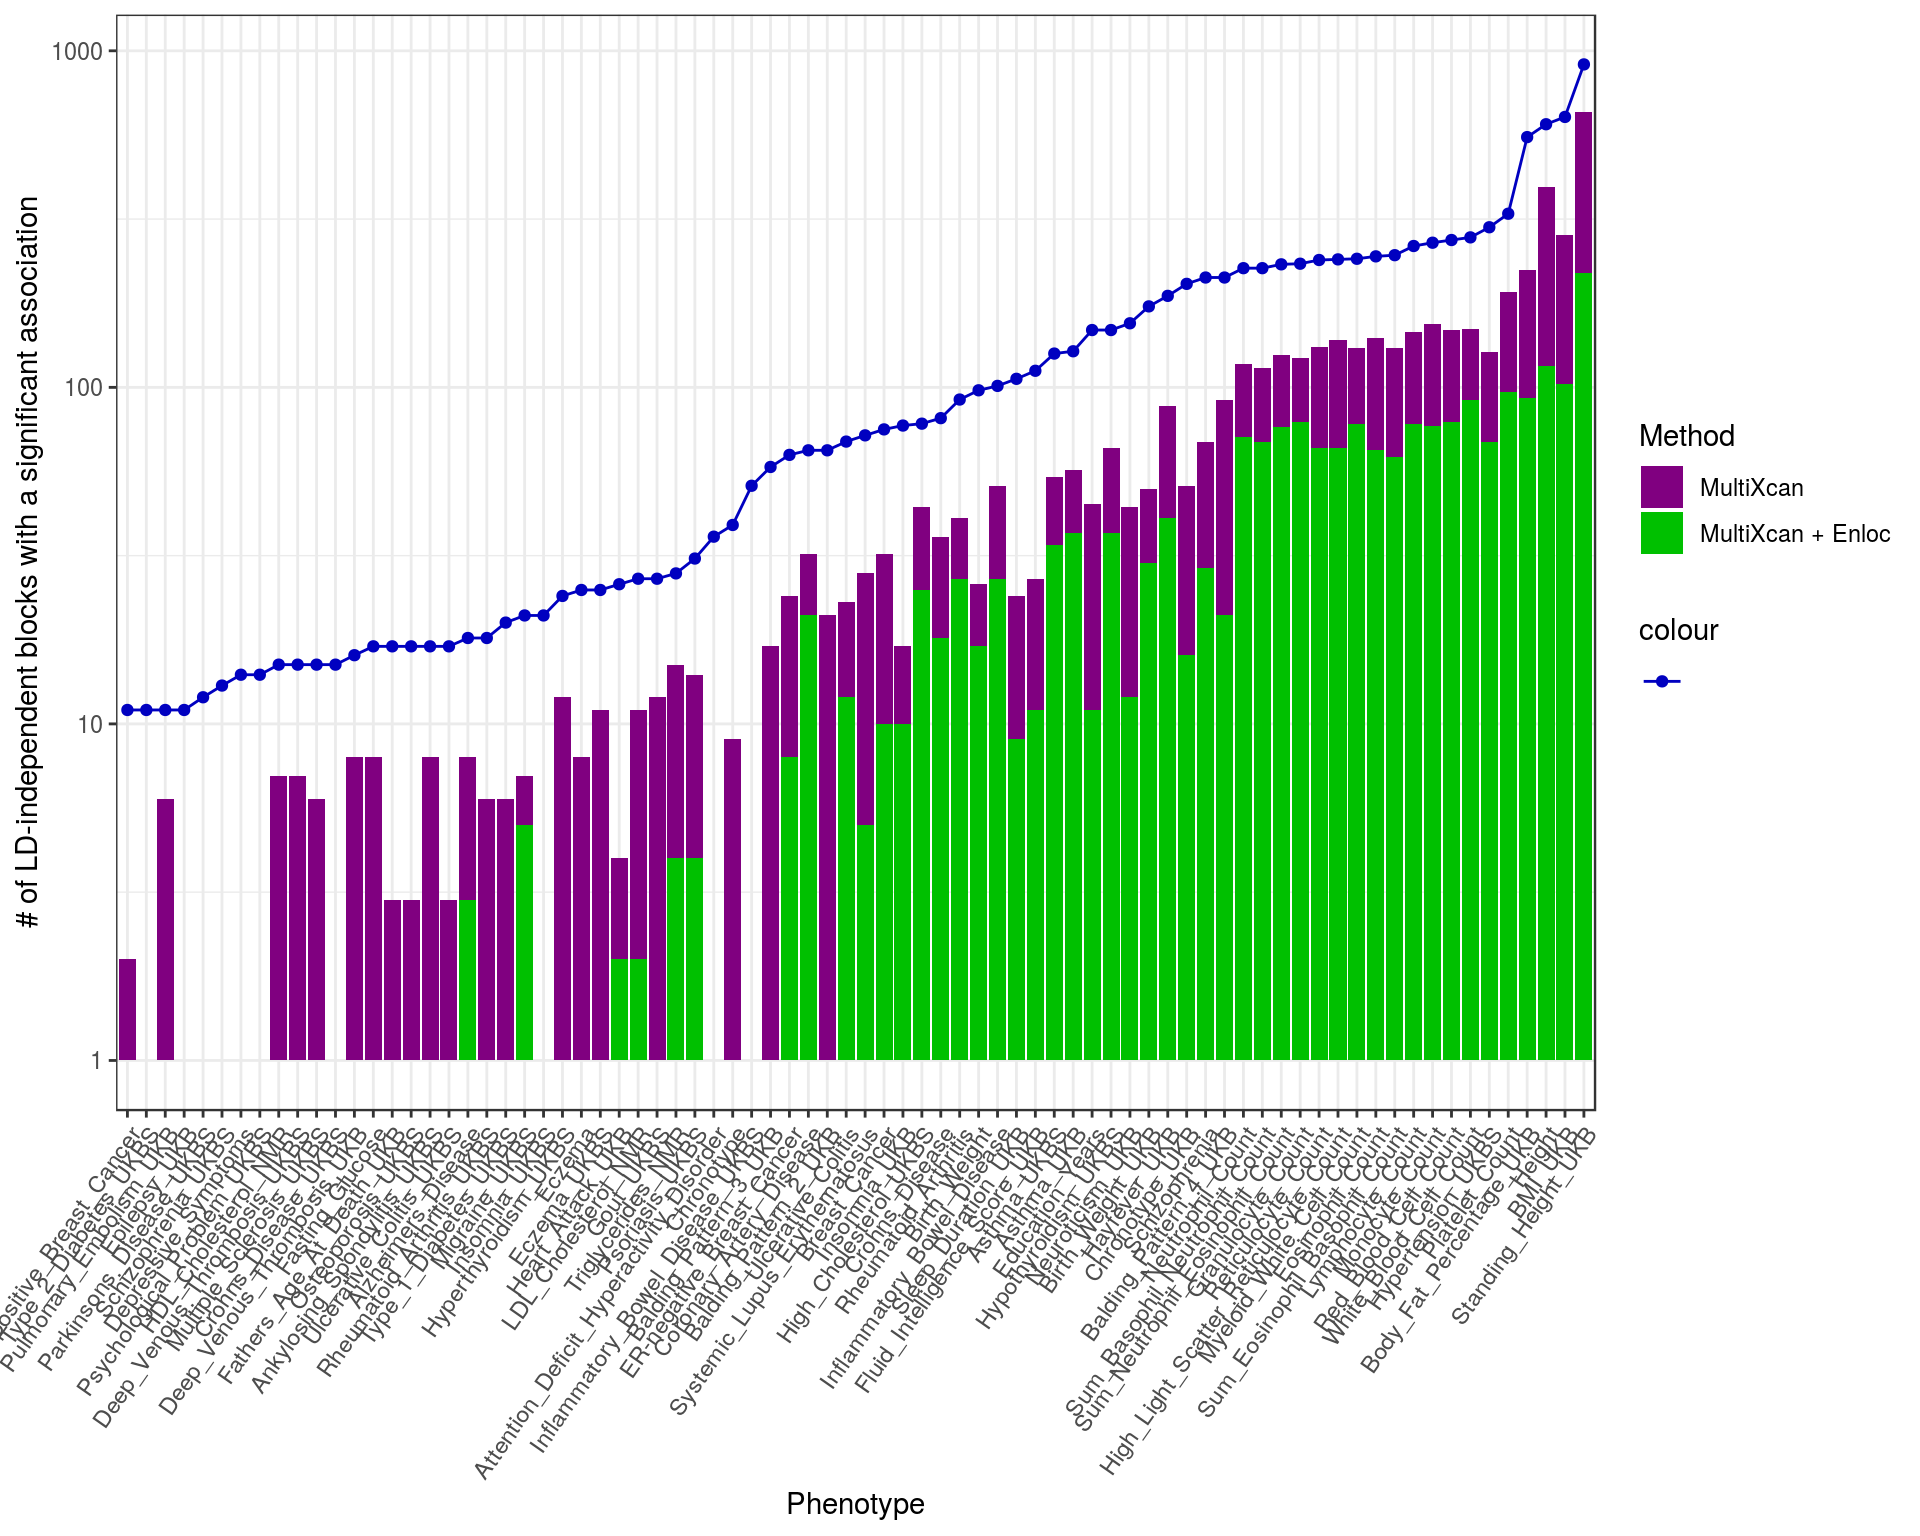
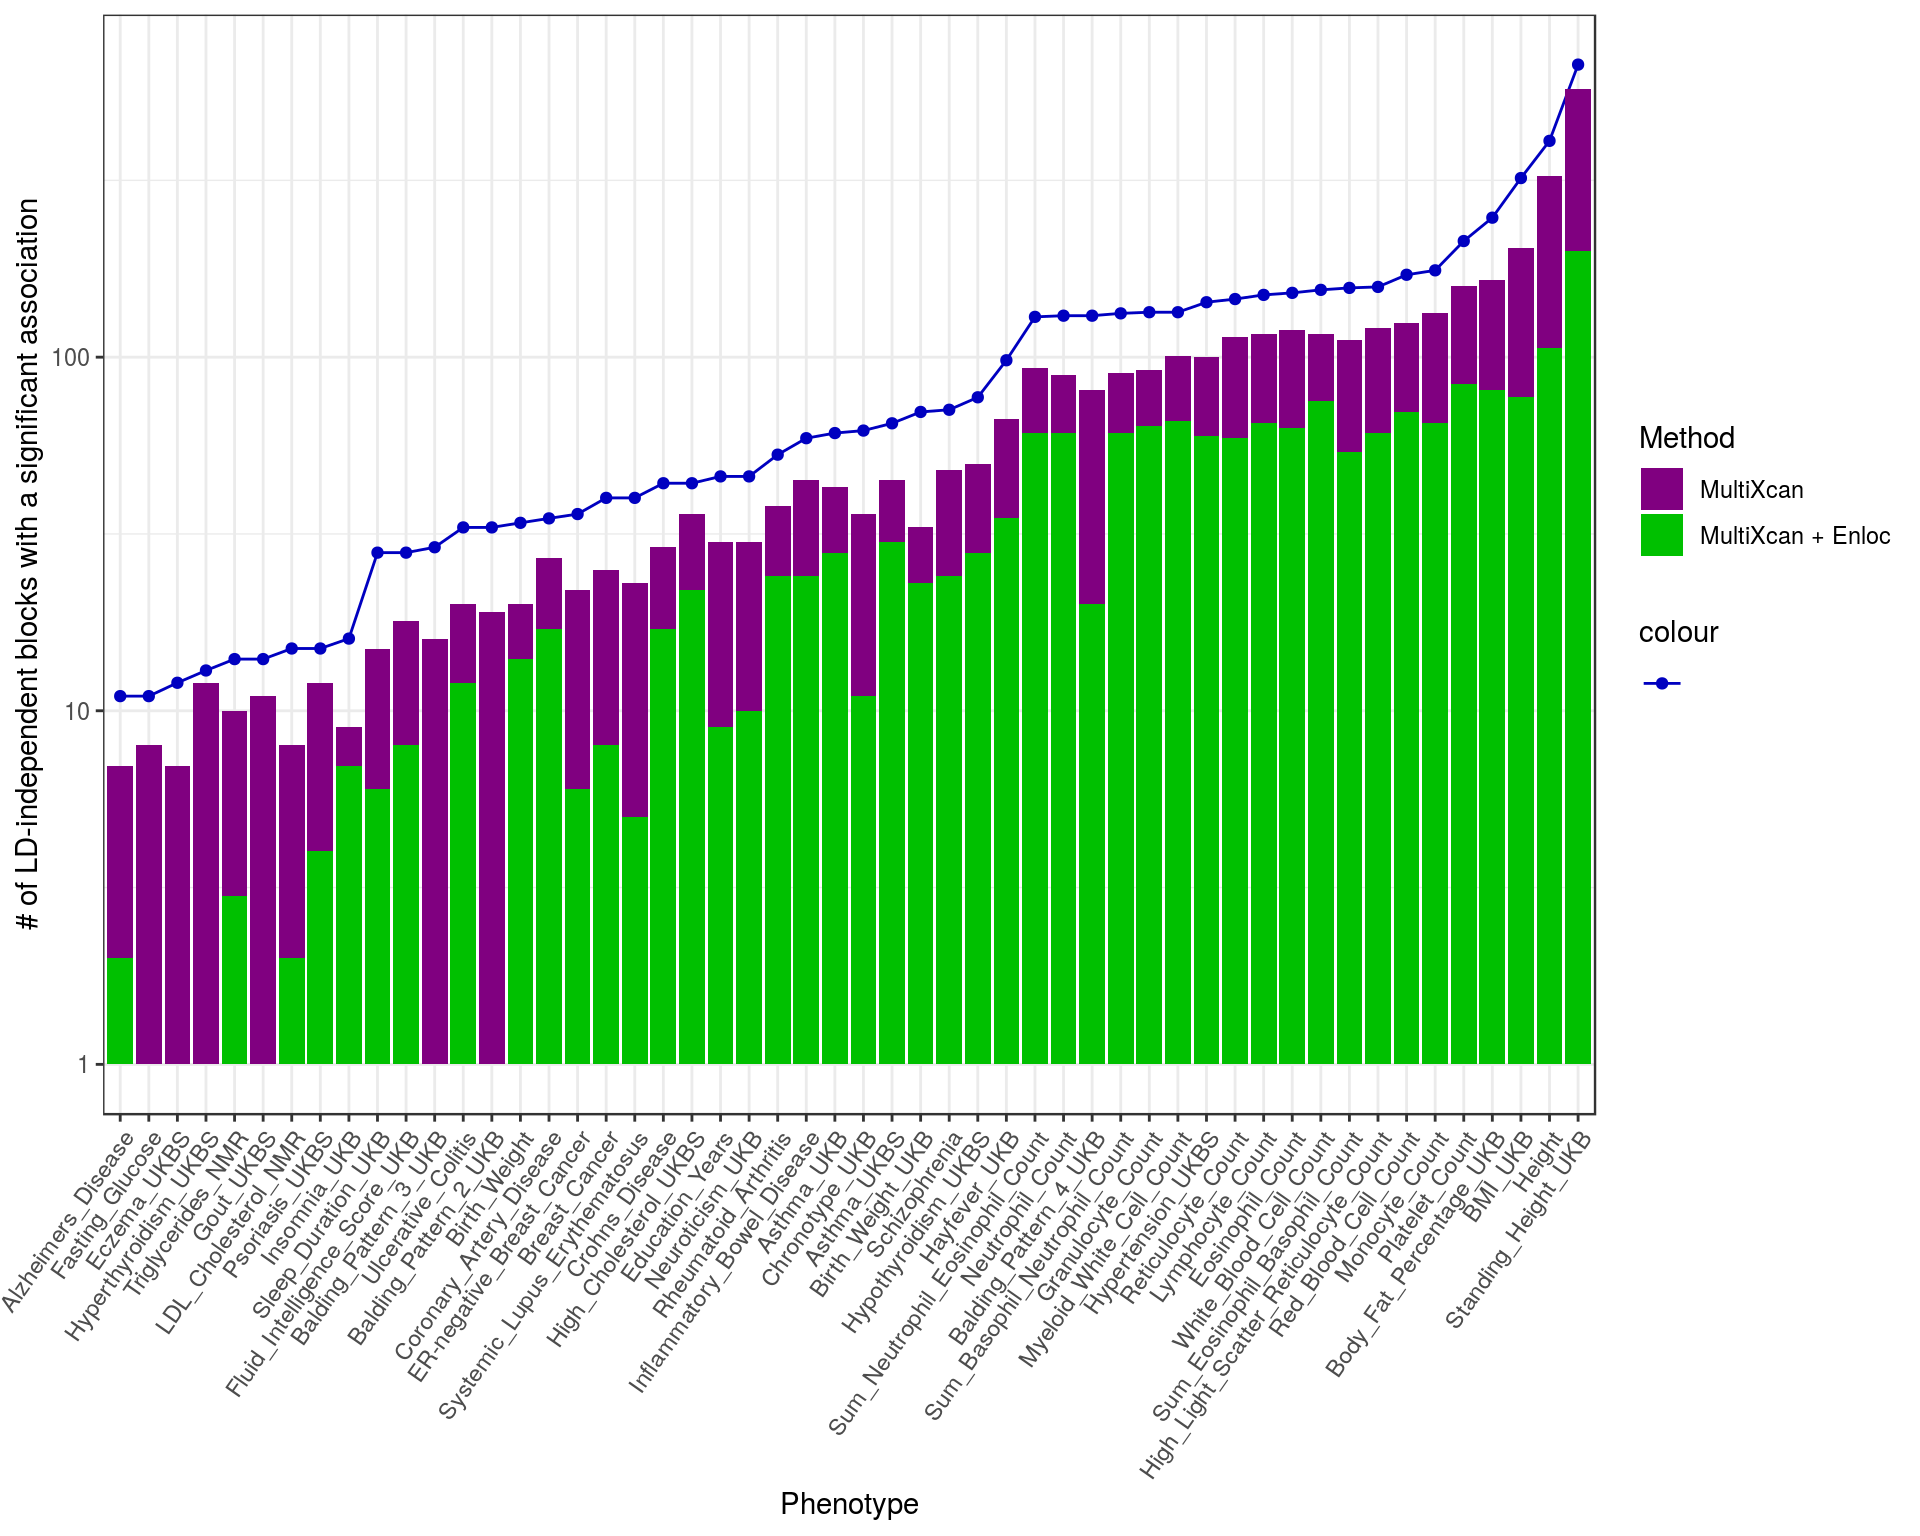
minor updates

diff --git a/docs/miscellaneous_statistics.html b/docs/miscellaneous_statistics.html
@@ -508,10 +508,10 @@ This reproducible <a href="http://rmarkdown.rstudio.com">R Markdown</a> analysis
 <div class="panel panel-default">
 <div class="panel-heading">
 <p class="panel-title">
-<a data-toggle="collapse" data-parent="#workflowr-checks" href="#strongRepositoryversionstrongahrefhttpsgithubcomhakyimlabgtexgwasanalysistreee23b054a7db864855c04e294d18b76a3b9a41a67targetblanke23b054a"> <span class="glyphicon glyphicon-ok text-success" aria-hidden="true"></span> <strong>Repository version:</strong> <a href="https://github.com/hakyimlab/gtex-gwas-analysis/tree/e23b054a7db864855c04e294d18b76a3b9a41a67" target="_blank">e23b054</a> </a>
+<a data-toggle="collapse" data-parent="#workflowr-checks" href="#strongRepositoryversionstrongahrefhttpsgithubcomhakyimlabgtexgwasanalysistree20eaab542e7c90c8ac1d61a5ac3af323b2cb9e7ftargetblank20eaab5a"> <span class="glyphicon glyphicon-ok text-success" aria-hidden="true"></span> <strong>Repository version:</strong> <a href="https://github.com/hakyimlab/gtex-gwas-analysis/tree/20eaab542e7c90c8ac1d61a5ac3af323b2cb9e7f" target="_blank">20eaab5</a> </a>
 </p>
 </div>
[2 lines of base64/hex data omitted]
 <div class="panel-body">
 <p>
 Great! You are using Git for version control. Tracking code development and connecting the code version to the results is critical for reproducibility. The version displayed above was the version of the Git repository at the time these results were generated. <br><br> Note that you need to be careful to ensure that all relevant files for the analysis have been committed to Git prior to generating the results (you can use <code>wflow_publish</code> or <code>wflow_git_commit</code>). workflowr only checks the R Markdown file, but you know if there are other scripts or data files that it depends on. Below is the status of the Git repository when the results were generated:
@@ -528,13 +528,12 @@ Ignored files:
 Untracked files:
     Untracked:  data/dapg_variants/
     Untracked:  output/counts_per_ld_block.csv
-    Untracked:  output/counts_per_ldblock_gwas_mx_and_enloc.rds
     Untracked:  output/gwas_counts_per_ldblock.rds
 
 Unstaged changes:
     Modified:   analysis/miscellaneous_statistics.Rmd
     Modified:   code/count_gwas_vs_predixcan_hits.R
-    Deleted:    output/counts_per_ldblock_mx_and_enloc.rds
+    Modified:   output/counts_per_ldblock_gwas_mx_and_enloc.rds
 
 </code></pre>
 <p>
@@ -573,6 +572,40 @@ Message
 </tr>
 </thead>
 <tbody>
+<tr>
+<td>
+Rmd
+</td>
+<td>
+<a href="https://github.com/hakyimlab/gtex-gwas-analysis/blob/20eaab542e7c90c8ac1d61a5ac3af323b2cb9e7f/analysis/miscellaneous_statistics.Rmd" target="_blank">20eaab5</a>
+</td>
+<td>
+rbonazzola
+</td>
+<td>
+2019-03-22
+</td>
+<td>
+changes to plot of # of associated loci
+</td>
+</tr>
+<tr>
+<td>
+html
+</td>
+<td>
+<a href="https://rawcdn.githack.com/hakyimlab/gtex-gwas-analysis/20eaab542e7c90c8ac1d61a5ac3af323b2cb9e7f/docs/miscellaneous_statistics.html" target="_blank">20eaab5</a>
+</td>
+<td>
+rbonazzola
+</td>
+<td>
+2019-03-22
+</td>
+<td>
+changes to plot of # of associated loci
+</td>
+</tr>
 <tr>
 <td>
 Rmd
@@ -758,9 +791,14 @@ query &lt;- glue::glue(&quot;SELECT Tag as phenotype, Deflation
 gwas_deflation_status &lt;- query_exec(query, gwas_metadata_tbl$project)</code></pre>
 <pre><code>0 bytes processed</code></pre>
 <pre class="r"><code>selected_phenotypes &lt;- gwas_deflation_status %&gt;% filter(Deflation == NO_DEFLATION) %&gt;% .[,1]
-strong_deflation_count &lt;- gwas_deflation_status %&gt;% filter(Deflation == STRONG_DEFLATION) %&gt;% .[,1] %&gt;% length()
-mild_deflation_count &lt;- gwas_deflation_status %&gt;% filter(Deflation == MILD_DEFLATION) %&gt;% .[,1] %&gt;% length()</code></pre>
-<p><strong><code>{r length(selected_phenotypes))} phenotypes were selected for analysis. From the rest,</code>{r strong_deflation_count} GWAS showed strong deflation after imputation, whereas `{r mild_deflation_count} presented mild deflation.</strong></p>
+strong_deflation_phenotypes &lt;- gwas_deflation_status %&gt;% filter(Deflation == STRONG_DEFLATION) %&gt;% .[,1]
+mild_deflation_phenotypes &lt;- gwas_deflation_status %&gt;% filter(Deflation == MILD_DEFLATION) %&gt;% .[,1]
+
+gwas_metadata &lt;- gtex_gwas_metadata() %&gt;% 
+                 rename(phenotype=&quot;Tag&quot;) %&gt;% 
+                 select(phenotype, new_Phenotype, Category, Deflation)</code></pre>
+<pre><code>0 bytes processed</code></pre>
+<p><strong>87 phenotypes were selected for analysis. From the rest, 23 GWAS showed strong deflation after imputation, whereas 4 presented mild deflation.</strong></p>
 </div>
 <div id="predixcan-and-multixcan" class="section level3">
 <h3>PrediXcan and MultiXcan</h3>
@@ -794,7 +832,7 @@ mild_deflation_count &lt;- gwas_deflation_status %&gt;% filter(Deflation == MILD
 <div id="predixcan-and-colocalization-methods" class="section level3">
 <h3>PrediXcan and colocalization methods</h3>
 <div id="how-many-among-predixcan-significant-are-coloc-colocalized" class="section level4">
-<h4>How many among PrediXcan-significant are COLOC-colocalized?</h4>
+<h4>How many among PrediXcan-significant are Coloc-colocalized?</h4>
 <pre><code>0 bytes processed</code></pre>
 <pre><code>&#39;data.frame&#39;:   117978 obs. of  5 variables:
  $ phenotype: chr  &quot;pgc.scz2&quot; &quot;pgc.scz2&quot; &quot;pgc.scz2&quot; &quot;pgc.scz2&quot; ...
@@ -814,7 +852,7 @@ mild_deflation_count &lt;- gwas_deflation_status %&gt;% filter(Deflation == MILD
 <p><strong>1253 out of 6119 (20.48%)</strong></p>
 </div>
 <div id="how-many-among-predixcan-significant-are-enloc-colocalized" class="section level4">
-<h4>How many among PrediXcan-significant are ENLOC-colocalized?</h4>
+<h4>How many among PrediXcan-significant are Enloc-colocalized?</h4>
 <pre><code>0 bytes processed</code></pre>
 <pre><code>&#39;data.frame&#39;:   201488 obs. of  5 variables:
  $ phenotype: chr  &quot;pgc.scz2&quot; &quot;pgc.scz2&quot; &quot;pgc.scz2&quot; &quot;pgc.scz2&quot; ...
@@ -834,7 +872,7 @@ mild_deflation_count &lt;- gwas_deflation_status %&gt;% filter(Deflation == MILD
 <p><strong>1173 out of 6119 (19.169799%)</strong></p>
 </div>
 <div id="how-many-among-coloc-colocalized-genes-are-predixcan-significant" class="section level4">
-<h4>How many among COLOC-colocalized genes are PrediXcan-significant?</h4>
+<h4>How many among Coloc-colocalized genes are PrediXcan-significant?</h4>
 <pre><code>0 bytes processed</code></pre>
 <pre><code>&#39;data.frame&#39;:   19729 obs. of  5 variables:
  $ phenotype: chr  &quot;pgc.scz2&quot; &quot;pgc.scz2&quot; &quot;pgc.scz2&quot; &quot;pgc.scz2&quot; ...
@@ -845,7 +883,7 @@ mild_deflation_count &lt;- gwas_deflation_status %&gt;% filter(Deflation == MILD
 <p><strong>2532 out of 2599 (97.42%)</strong></p>
 </div>
 <div id="how-many-among-enloc-colocalized-genes-are-predixcan-significant" class="section level4">
-<h4>How many among ENLOC-colocalized genes are PrediXcan-significant?</h4>
+<h4>How many among Enloc-colocalized genes are PrediXcan-significant?</h4>
 <pre><code>0 bytes processed</code></pre>
 <pre><code>&#39;data.frame&#39;:   25281 obs. of  5 variables:
  $ phenotype: chr  &quot;pgc.scz2&quot; &quot;pgc.scz2&quot; &quot;pgc.scz2&quot; &quot;pgc.scz2&quot; ...
@@ -856,7 +894,7 @@ mild_deflation_count &lt;- gwas_deflation_status %&gt;% filter(Deflation == MILD
 <p><strong>3014 out of 3401 (88.62%)</strong></p>
 </div>
 <div id="how-many-among-enloc-colocalized-genes-are-coloc-colocalized" class="section level4">
-<h4>How many among ENLOC-colocalized genes are COLOC-colocalized?</h4>
+<h4>How many among Enloc-colocalized genes are Coloc-colocalized?</h4>
 <pre><code>0 bytes processed</code></pre>
 <pre><code>&#39;data.frame&#39;:   41127 obs. of  5 variables:
  $ phenotype: chr  &quot;pgc.scz2&quot; &quot;pgc.scz2&quot; &quot;pgc.scz2&quot; &quot;pgc.scz2&quot; ...
@@ -873,47 +911,41 @@ mild_deflation_count &lt;- gwas_deflation_status %&gt;% filter(Deflation == MILD
 # counts.per.ldblock &lt;- read_file_from_link(&quot;https://storage.googleapis.com/rbonazzola/counts_per_ld_block.csv&quot;, sep = &quot;,&quot;)
 # counts.per.ldblock &lt;- readRDS(&quot;../output/counts_per_ldblock_mx_and_enloc.rds&quot;)
 counts.per.ldblock &lt;- readRDS(&quot;output/counts_per_ldblock_gwas_mx_and_enloc.rds&quot;)
+# attributes(counts.per.ldblock)
+# attr(counts.per.ldblock, &quot;gwas_pval_thr&quot;)
+# attr(counts.per.ldblock, &quot;mx_pval_thr&quot;)
+# attr(counts.per.ldblock, &quot;rcp_thr&quot;)
 
-gwas_metadata &lt;- gtex_gwas_metadata() %&gt;% 
-                 rename(phenotype=&quot;Tag&quot;) %&gt;% 
-                 select(phenotype, new_Phenotype, Category, Deflation)</code></pre>
-<pre><code>0 bytes processed</code></pre>
-<pre class="r"><code>counts.per.ldblock &lt;- counts.per.ldblock %&gt;% inner_join(gwas_metadata)</code></pre>
-<pre><code>Joining, by = c(&quot;phenotype&quot;, &quot;new_Phenotype&quot;, &quot;Deflation&quot;)</code></pre>
-<pre class="r"><code>counts.per.ldblock &lt;- counts.per.ldblock %&gt;% filter(Deflation == 0)
+# counts.per.ldblock &lt;- counts.per.ldblock %&gt;% inner_join(gwas_metadata)
+# counts.per.ldblock &lt;- counts.per.ldblock %&gt;% filter(Deflation == 0)
 ordered_phenotypes &lt;- counts.per.ldblock %&gt;% arrange(gwas_counts) %&gt;% select(phenotype, new_Phenotype, abbreviation)
-
 counts.per.ldblock$phenotype &lt;- factor(as.character(counts.per.ldblock$phenotype), levels = ordered_phenotypes$phenotype)
 counts.per.ldblock$new_Phenotype &lt;- factor(as.character(counts.per.ldblock$new_Phenotype), levels = ordered_phenotypes$new_Phenotype)
 counts.per.ldblock$abbreviation &lt;- factor(as.character(counts.per.ldblock$abbreviation), levels = ordered_phenotypes$abbreviation)
 
 str(counts.per.ldblock)</code></pre>
-<pre><code>Classes &#39;tbl_df&#39;, &#39;tbl&#39; and &#39;data.frame&#39;:   87 obs. of  8 variables:
- $ phenotype                : Factor w/ 87 levels &quot;ENIGMA_Intracraneal_Volume&quot;,..: 76 72 74 78 79 75 69 83 80 73 ...
- $ gwas_counts              : int  245 233 240 263 269 241 226 328 274 239 ...
- $ gwas_mx_counts           : num  140 122 138 146 154 131 117 192 148 132 ...
- $ gwas_mx_enloc_counts_gene: num  65 79 66 78 77 78 71 97 79 66 ...
- $ new_Phenotype            : Factor w/ 87 levels &quot;Intracraneal_Volume&quot;,..: 76 72 74 78 79 75 69 83 80 73 ...
- $ abbreviation             : Factor w/ 87 levels &quot;INV&quot;,&quot;MFI&quot;,&quot;UN_IBS&quot;,..: 76 72 74 78 79 75 69 83 80 73 ...
+<pre><code>Classes &#39;tbl_df&#39;, &#39;tbl&#39; and &#39;data.frame&#39;:   82 obs. of  8 variables:
+ $ phenotype                : Factor w/ 82 levels &quot;CNCR_Insomnia_all&quot;,..: 72 67 75 71 77 68 64 78 76 70 ...
+ $ gwas_counts              : int  152 134 158 150 176 134 131 213 171 146 ...
+ $ gwas_mx_counts           : num  119 92 121 116 133 101 89 159 125 114 ...
+ $ gwas_mx_enloc_counts_gene: num  63 64 61 65 65 66 61 84 70 59 ...
+ $ new_Phenotype            : Factor w/ 82 levels &quot;Insomnia_In_Both_Sexes&quot;,..: 72 67 75 71 77 68 64 78 76 70 ...
+ $ abbreviation             : Factor w/ 82 levels &quot;NSL&quot;,&quot;INV&quot;,&quot;GFA&quot;,..: 72 67 75 71 77 68 64 78 76 70 ...
+ $ Category                 : chr  &quot;Blood&quot; &quot;Blood&quot; &quot;Blood&quot; &quot;Blood&quot; ...
  $ Deflation                : int  0 0 0 0 0 0 0 0 0 0 ...
- $ Category                 : chr  &quot;Blood&quot; &quot;Blood&quot; &quot;Blood&quot; &quot;Blood&quot; ...</code></pre>
+ - attr(*, &quot;gwas_pval_thr&quot;)= num 6.25e-09
+ - attr(*, &quot;mx_pval_thr&quot;)= num 2.31e-06
+ - attr(*, &quot;rcp_thr&quot;)= num 0.5</code></pre>
 <pre class="r"><code># shapes &lt;- c(&quot;GWAS&quot;=6, &quot;MultiXcan&quot;=3, &quot;MultiXcan + Enloc&quot;=8)
 cols &lt;- c(&quot;GWAS&quot;=&quot;#0000C0&quot;, &quot;MultiXcan&quot;=&quot;#800080&quot;, &quot;MultiXcan + Enloc&quot;=&quot;#00C000&quot;)</code></pre>
-<p>The following plots represent: - The number of Pickrell regions with a GWAS hit (a proxy for the number of independent GWAS signals). - Among those, the ones with a MultiXcan-significant gene. - Among those, the regions with an ENLOC-colocalized gene. - Among the regions with a MultiXcan-significant gene, the ones where this gene is ENLOC-colocalized.</p>
-<pre><code>Classes &#39;tbl_df&#39;, &#39;tbl&#39; and &#39;data.frame&#39;:   78 obs. of  8 variables:
- $ phenotype                : Factor w/ 87 levels &quot;ENIGMA_Intracraneal_Volume&quot;,..: 76 72 74 78 79 75 69 83 80 73 ...
- $ gwas_counts              : int  245 233 240 263 269 241 226 328 274 239 ...
- $ gwas_mx_counts           : num  140 122 138 146 154 131 117 192 148 132 ...
- $ gwas_mx_enloc_counts_gene: num  65 79 66 78 77 78 71 97 79 66 ...
- $ new_Phenotype            : Factor w/ 87 levels &quot;Intracraneal_Volume&quot;,..: 76 72 74 78 79 75 69 83 80 73 ...
- $ abbreviation             : Factor w/ 87 levels &quot;INV&quot;,&quot;MFI&quot;,&quot;UN_IBS&quot;,..: 76 72 74 78 79 75 69 83 80 73 ...
- $ Deflation                : int  0 0 0 0 0 0 0 0 0 0 ...
- $ Category                 : chr  &quot;Blood&quot; &quot;Blood&quot; &quot;Blood&quot; &quot;Blood&quot; ...</code></pre>
-<pre><code>Warning: Transformation introduced infinite values in continuous y-axis
-
-Warning: Transformation introduced infinite values in continuous y-axis</code></pre>
-<pre><code>Warning: Removed 8 rows containing missing values (geom_bar).</code></pre>
-<pre><code>Warning: Removed 22 rows containing missing values (geom_bar).</code></pre>
+<p>The following plots represent:</p>
+<ul>
+<li>The number of Pickrell regions with a GWAS hit (a proxy for the number of independent GWAS signals). The p-value threshold used was 0.05/8000000.</li>
+<li>Among those, the ones with a MultiXcan-significant gene. The p-value threshold used was 0.05/21631.</li>
+<li>The number of regions with a gene that is both MultiXcan-significant and Enloc-colocalized. The threshold for Enloc’s RCP was 0.5</li>
+</ul>
+<pre><code>Warning: Transformation introduced infinite values in continuous y-axis</code></pre>
+<pre><code>Warning: Removed 2 rows containing missing values (geom_bar).</code></pre>
 <p><img src="figure/miscellaneous_statistics.Rmd/counts_by_ldblock_fig1-1.png" width="960" style="display: block; margin: auto;" /></p>
 <p>
 <button type="button" class="btn btn-default btn-xs btn-workflowr btn-workflowr-fig" data-toggle="collapse" data-target="#fig-counts_by_ldblock_fig1-1">
@@ -939,6 +971,17 @@ Date
 <tbody>
 <tr>
 <td>
+<a href="https://github.com/hakyimlab/gtex-gwas-analysis/blob/20eaab542e7c90c8ac1d61a5ac3af323b2cb9e7f/docs/figure/miscellaneous_statistics.Rmd/counts_by_ldblock_fig1-1.png" target="_blank">20eaab5</a>
+</td>
+<td>
+rbonazzola
+</td>
+<td>
+2019-03-22
+</td>
+</tr>
+<tr>
+<td>
 <a href="https://github.com/hakyimlab/gtex-gwas-analysis/blob/e23b054a7db864855c04e294d18b76a3b9a41a67/docs/figure/miscellaneous_statistics.Rmd/counts_by_ldblock_fig1-1.png" target="_blank">e23b054</a>
 </td>
 <td>
@@ -953,11 +996,8 @@ rbonazzola
 </div>
 </div>
 <p>The same, but by trait category:</p>
-<pre><code>Warning: Transformation introduced infinite values in continuous y-axis
-
-Warning: Transformation introduced infinite values in continuous y-axis</code></pre>
-<pre><code>Warning: Removed 8 rows containing missing values (geom_bar).</code></pre>
-<pre><code>Warning: Removed 22 rows containing missing values (geom_bar).</code></pre>
+<pre><code>Warning: Transformation introduced infinite values in continuous y-axis</code></pre>
+<pre><code>Warning: Removed 2 rows containing missing values (geom_bar).</code></pre>
 <p><img src="figure/miscellaneous_statistics.Rmd/counts_by_ldblock_fig2-1.png" width="960" style="display: block; margin: auto;" /></p>
 <p>
 <button type="button" class="btn btn-default btn-xs btn-workflowr btn-workflowr-fig" data-toggle="collapse" data-target="#fig-counts_by_ldblock_fig2-1">
@@ -981,6 +1021,17 @@ Date
 </tr>
 </thead>
 <tbody>
+<tr>
+<td>
+<a href="https://github.com/hakyimlab/gtex-gwas-analysis/blob/20eaab542e7c90c8ac1d61a5ac3af323b2cb9e7f/docs/figure/miscellaneous_statistics.Rmd/counts_by_ldblock_fig2-1.png" target="_blank">20eaab5</a>
+</td>
+<td>
+rbonazzola
+</td>
+<td>
+2019-03-22
+</td>
+</tr>
 <tr>
 <td>
 <a href="https://github.com/hakyimlab/gtex-gwas-analysis/blob/e23b054a7db864855c04e294d18b76a3b9a41a67/docs/figure/miscellaneous_statistics.Rmd/counts_by_ldblock_fig2-1.png" target="_blank">e23b054</a>
